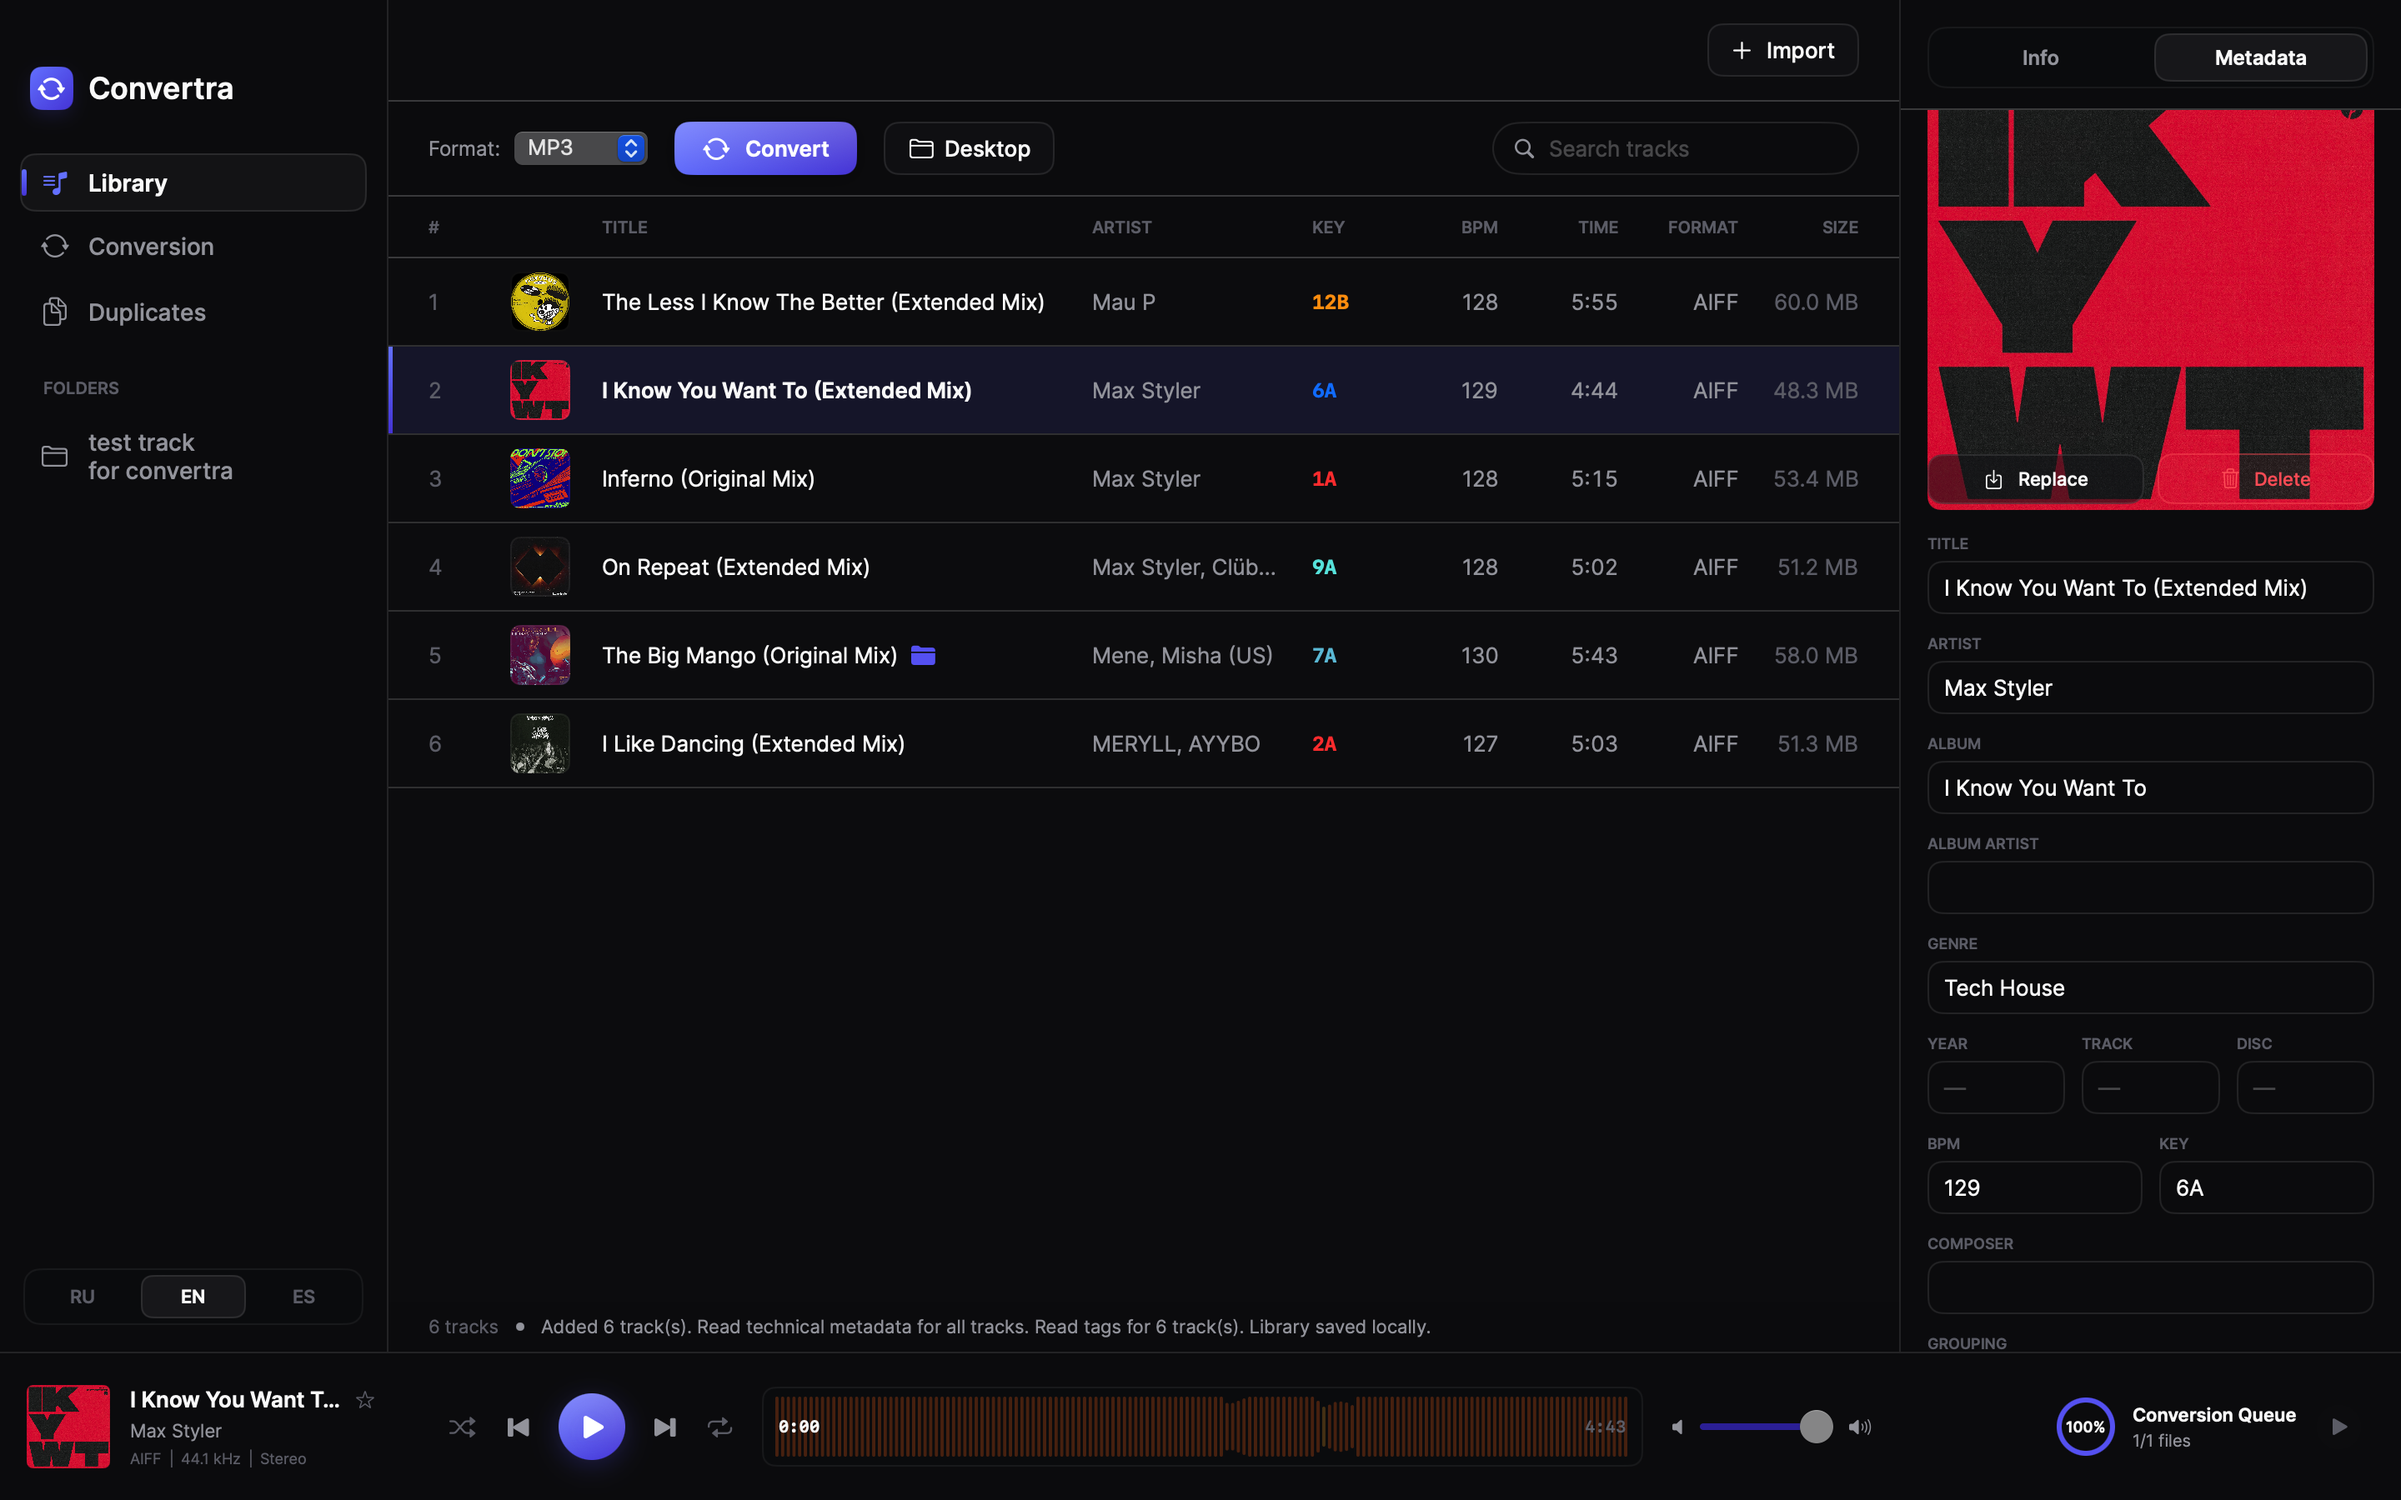
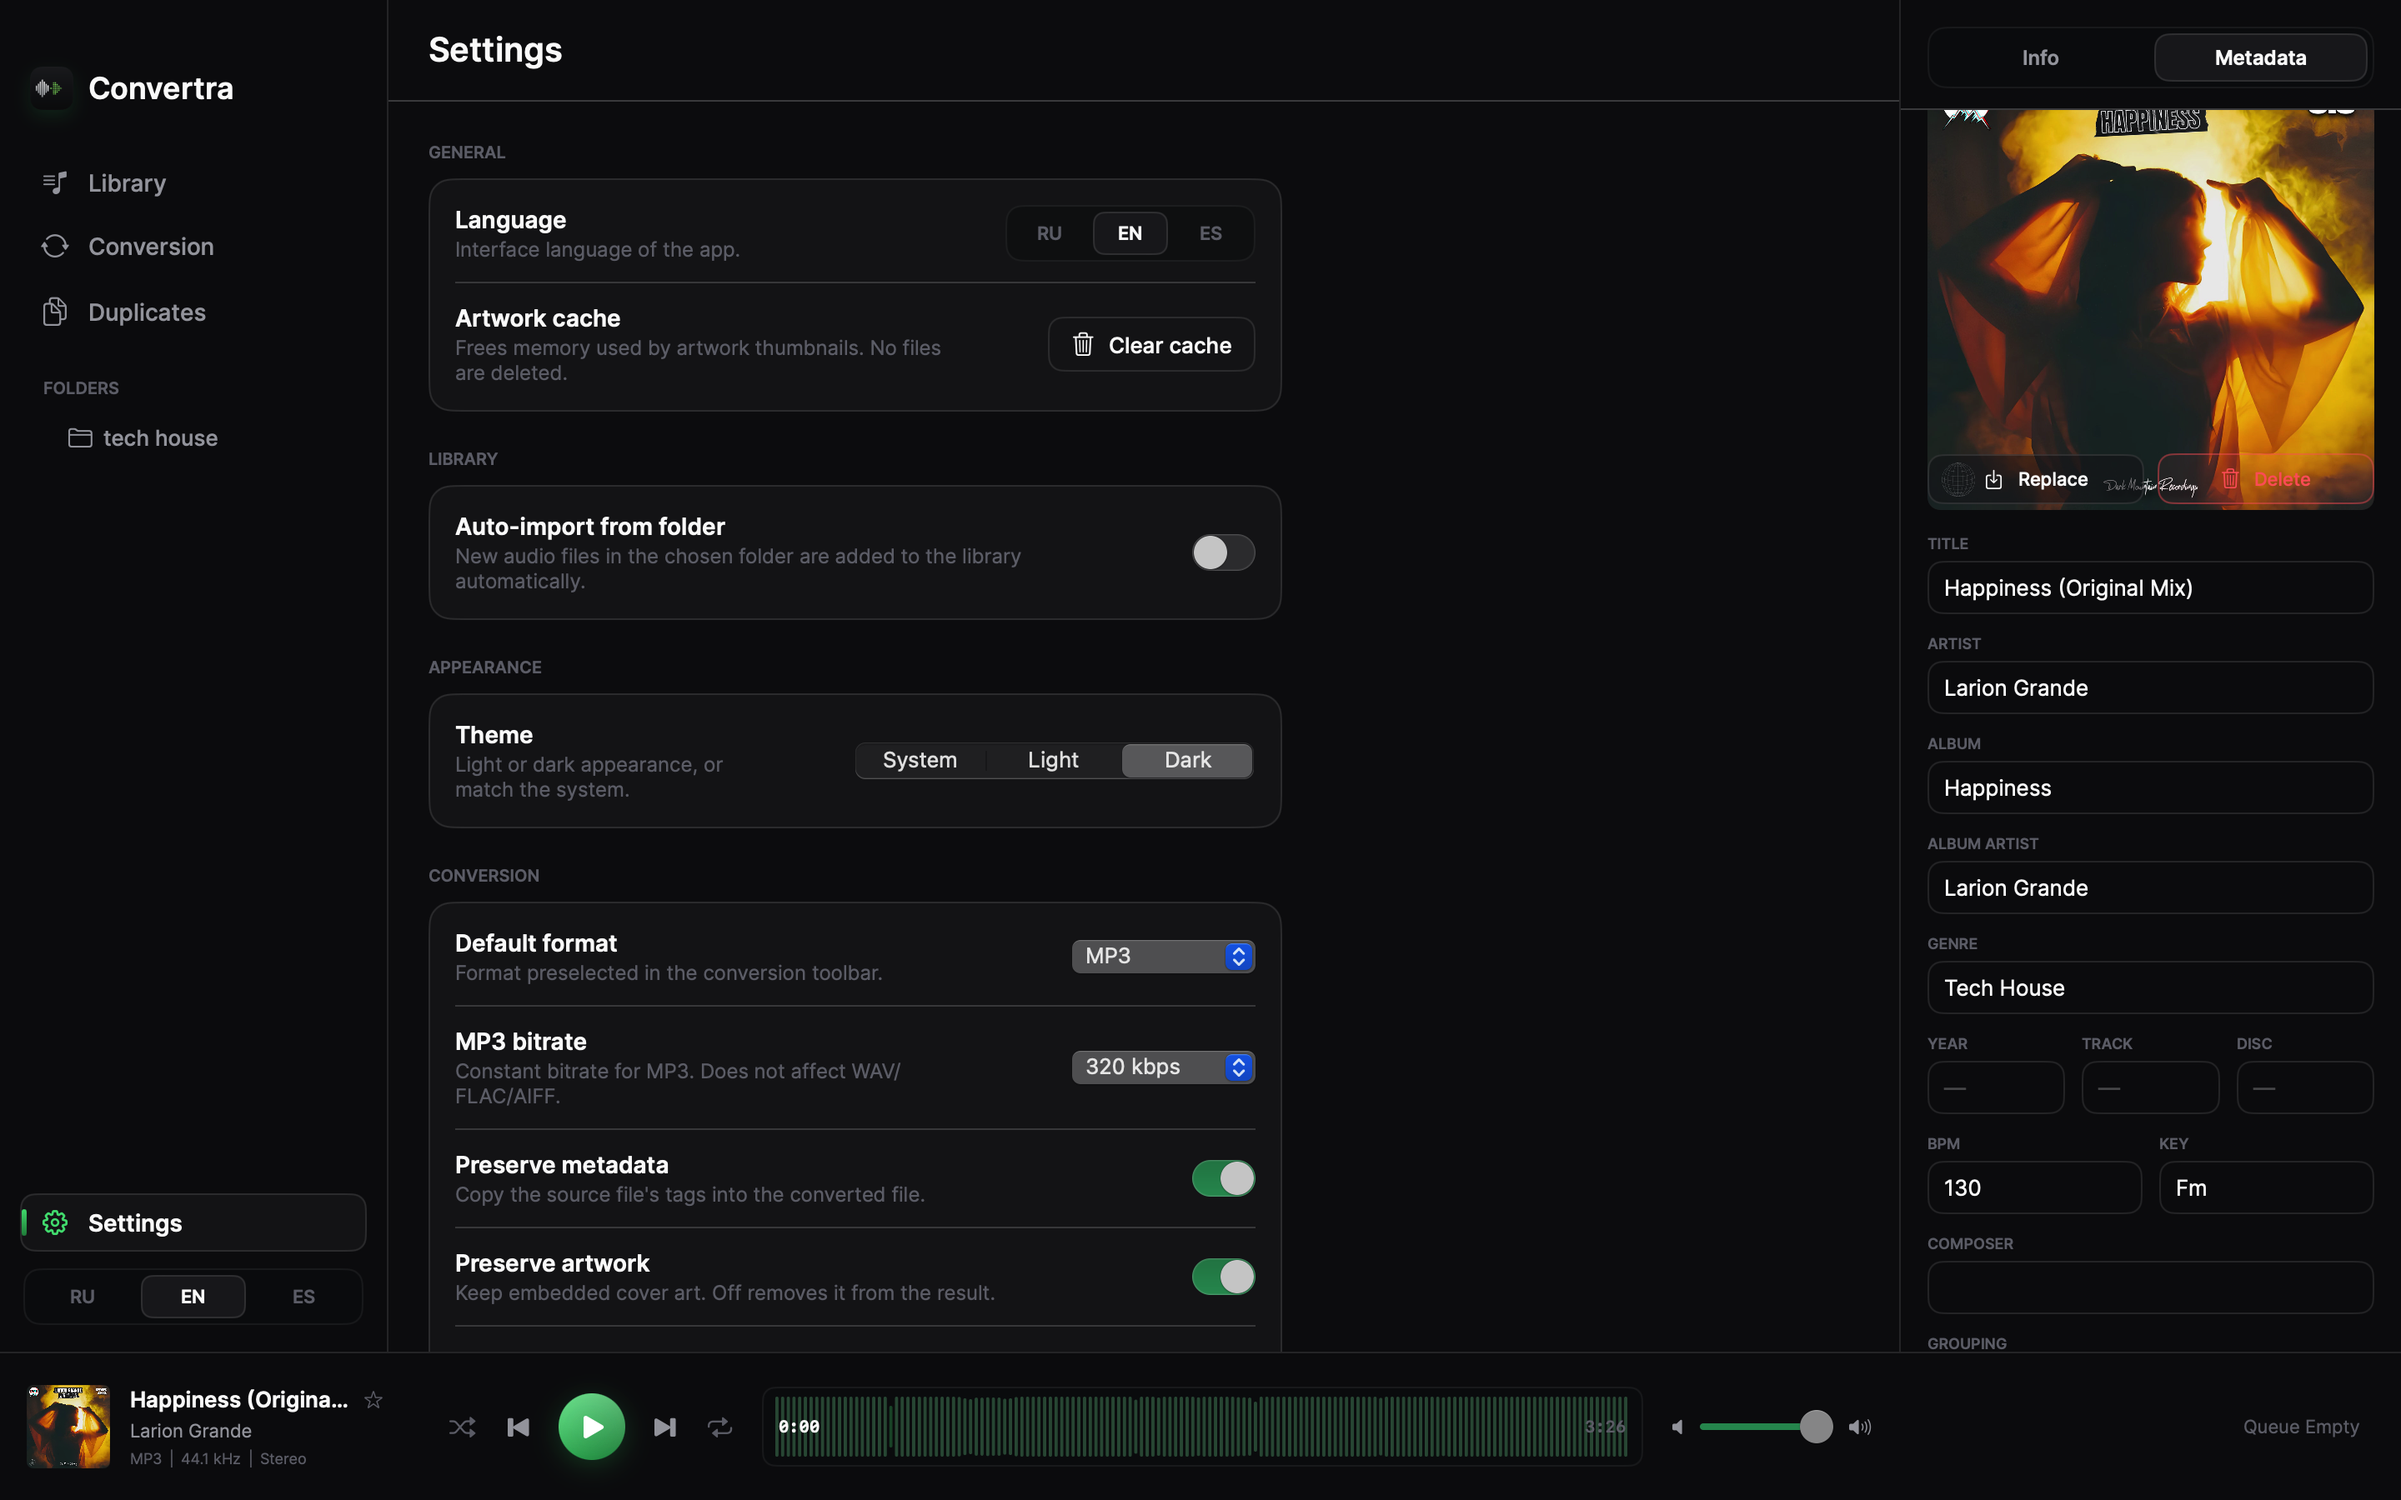
Replace app screenshots with new green-theme captures
- Hero: dark library (green UI, new icon in sidebar)
- Gallery: metadata+waveform, settings, light-theme library
- Drop stale violet conversion/duplicates shots (no green versions yet)
- Add show.caption.light (RU/EN/ES)

diff --git a/src/data/i18n.ts b/src/data/i18n.ts
@@ -154,6 +154,7 @@ const en: Dict = {
   'show.caption.conversion': 'Convertra — batch conversion queue',
   'show.caption.duplicates': 'Convertra — duplicate detection across the library',
   'show.caption.settings': 'Convertra — conversion & library settings',
+  'show.caption.light': 'Convertra — light & dark themes',
 
   // ---- comparison ----
   'cmp.eyebrow': 'Category context',
@@ -404,6 +405,7 @@ const ru: Dict = {
   'show.caption.conversion': 'Convertra — очередь пакетной конвертации',
   'show.caption.duplicates': 'Convertra — поиск дубликатов по всей библиотеке',
   'show.caption.settings': 'Convertra — настройки конвертации и библиотеки',
+  'show.caption.light': 'Convertra — светлая и тёмная темы',
 
   'cmp.eyebrow': 'Отраслевой контекст',
   'cmp.title': 'Где находится AudioCore',
@@ -647,6 +649,7 @@ const es: Dict = {
   'show.caption.conversion': 'Convertra — cola de conversión por lotes',
   'show.caption.duplicates': 'Convertra — detección de duplicados en la biblioteca',
   'show.caption.settings': 'Convertra — ajustes de conversión y biblioteca',
+  'show.caption.light': 'Convertra — temas claro y oscuro',
 
   'cmp.eyebrow': 'Contexto de categoría',
   'cmp.title': 'Dónde encaja AudioCore',
